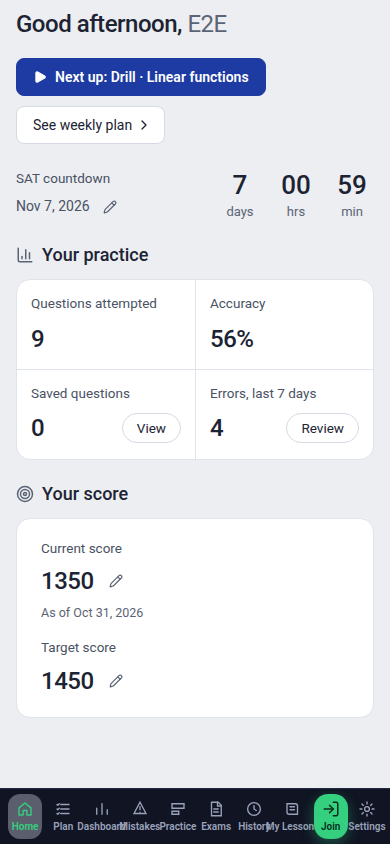
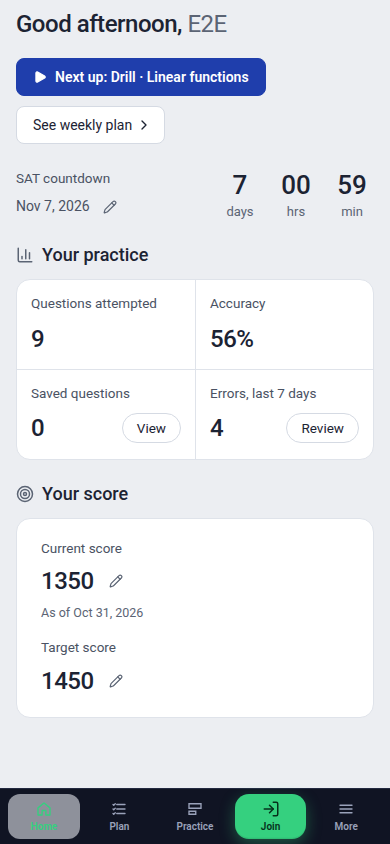
Phone tab bar with a More menu; drop slashes from account names
- Phone (<=760px): the bottom bar keeps Home, Plan, Practice, Join and a new
  More button; Dashboard, Mistakes, Exams, History, My Lessons, Settings,
  Admin and sign in/out open from More, so labels no longer overlap. The
  rail above 760px is unchanged. The rail's dark hover now beats the
  page-wide light button:hover that left a pale tile under the pointer.
- Names: the identity provider prefixes names with '/'. src/name.js drops
  slashes wherever the Worker reads a name (users row, lesson roster), and
  the app does the same for the name it shows.
- data-fixes/main/0001_user_name_slashes.sql cleans names already stored in
  users (not applied; backup/apply/verify commands in its header).
- Tests: tests/test_name.ts (incl. the SQL run against SQLite); home.spec H5
  covers the tab bar and More menu.

Claude-Session: https://claude.ai/code/session_018RgxUgDhV5hH4adTp8RhiX

Changed region(s): [[0.0, 0.9242, 0.9846, 1.0]]

diff --git a/public/index.html b/public/index.html
@@ -106,7 +106,8 @@ img { max-width: 100%; height: auto; }
 .nav-brand .brand-mark { flex: 0 0 34px; display: grid; place-items: center; width: 34px; height: 34px; background: #2563eb; color: #fff; border-radius: 10px; font-size: 20px; }
 .nav-grp { font-size: 10.5px; font-weight: 700; letter-spacing: .1em; text-transform: uppercase; color: var(--nav-dim); padding: 18px 10px 7px; }
 .nav-i { display: flex; align-items: center; gap: 11px; width: 100%; text-align: left; border: 0; background: transparent; color: var(--nav-txt); font-size: 14px; font-weight: 500; padding: 10px; border-radius: 11px; margin-bottom: 2px; }
-.nav-i:hover:not(:disabled) { background: var(--nav-2); border-color: transparent; color: var(--nav-on); }
+/* .nav in front: the page-wide light button:hover outranks a bare .nav-i:hover and left a pale tile on the dark rail. */
+.nav .nav-i:hover:not(:disabled) { background: var(--nav-2); border-color: transparent; color: var(--nav-on); }
 .nav-i.on { background: var(--nav-2); color: var(--nav-on); font-weight: 600; }
 .nav-i.on svg { color: var(--mint); }
 .nav-i svg { flex: 0 0 18px; }
@@ -120,6 +121,8 @@ img { max-width: 100%; height: auto; }
 #join-lesson:focus-visible { outline: 2px solid #fff; outline-offset: 2px; }
 @media (prefers-reduced-motion: reduce) { #join-lesson { transition: none; } #join-lesson:hover:not(:disabled) { transform: none; } }
 .nav-user { display: flex; align-items: center; gap: 10px; padding: 12px 10px 10px; border-top: 1px solid var(--nav-line); }
+/* The phone tab bar's More button and its menu (the rest of the rail); the rail itself never shows them. */
+.nav-more, .nav-more-menu { display: none; }
 .nav-av { flex: 0 0 32px; width: 32px; height: 32px; border-radius: 50%; background: var(--nav-2); color: var(--nav-on); display: flex; align-items: center; justify-content: center; font-weight: 700; font-size: 13px; }
 .nav-um { min-width: 0; }
 .nav-gear { width: auto; flex: 0 0 auto; margin: 0 0 0 auto; padding: 8px; }
@@ -609,28 +612,38 @@ body:has(#bank-live:not(.hide)) #sync-bar { bottom: calc(clamp(52px, 7vh, 85px) 
   /* A bottom nav is an icon over its label, and the labels have to come back:
      they are hidden at 980px because the rail is a 66px strip there, but here
      there is a whole row for them and a bare glyph row reads as a toolbar.
-     Five equal tabs plus the sign-in button; "Question Bank" does not fit in a
-     fifth of 375px and the gear has no label in the markup at all, so those two
-     carry a short one of their own. */
+     Five tiles: Home, Plan, Practice, Join and More; everything else on the rail
+     (Dashboard, Mistakes, Exams, History, My Lessons, Settings, Admin, sign in
+     or out) is in the More menu. "Question Bank" does not fit in a fifth of
+     375px, so it carries a short label of its own. */
   .nav-i, .nav-user { flex: 1 1 0; min-width: 0; }
   .nav-i { flex-direction: column; justify-content: center; gap: 3px;
            margin: 0; padding: 6px 2px; border-radius: 12px; }
-  .nav-i > span, .nav-gear::after { display: block; font-size: 10px; font-weight: 600;
+  .nav-i > span { display: block; font-size: 10px; font-weight: 600;
                                     line-height: 1.2; white-space: nowrap; }
   .nav-i[data-tab="practice"] > span { font-size: 0; }
   .nav-i[data-tab="practice"] > span::after { content: "Practice"; font-size: 10px; }
   .nav-i[data-tab="plan"] > span { font-size: 0; }
   .nav-i[data-tab="plan"] > span::after { content: "Plan"; font-size: 10px; }
-  .nav-i[data-tab="exams"] > span { font-size: 0; }
-  .nav-i[data-tab="exams"] > span::after { content: "Exams"; font-size: 10px; }
-  .nav-gear::after { content: "Settings"; }
+  .nav-i[data-tab="dash"], .nav-i[data-tab="mistakes"], .nav-i[data-tab="exams"], .nav-i[data-tab="history"],
+  .nav-i[data-tab="lessons"], #admin-link, .nav-user { display: none; }
+  .nav-more { display: flex; }
+  .nav-more.on > span { color: var(--mint); }
+  .nav-more.on svg { color: var(--mint); }
+  .nav-more-menu:not([hidden]) { display: flex; flex-direction: column; position: fixed; z-index: 60; right: 8px;
+    bottom: calc(68px + env(safe-area-inset-bottom)); min-width: 210px; padding: 6px; border: 1px solid var(--nav-line);
+    border-radius: 14px; background: var(--nav); box-shadow: 0 12px 32px rgba(10, 15, 30, .35); }
+  .nav-more-i { display: flex; align-items: center; gap: 12px; width: 100%; padding: 11px 12px; border: 0; border-radius: 10px;
+    background: transparent; color: var(--nav-txt); font-size: 14.5px; font-weight: 500; text-align: left; text-decoration: none; }
+  .nav-more-menu .nav-more-i:hover:not(:disabled) { background: var(--nav-2); color: var(--nav-on); }
+  .nav-more-i.on { background: var(--nav-2); color: var(--nav-on); font-weight: 600; }
+  .nav-more-i.on svg { color: var(--mint); }
+  .nav-more-i svg { flex: 0 0 18px; }
   #join-lesson { margin: 0; padding: 6px 2px; border-radius: 14px; box-shadow: 0 3px 10px rgba(53, 208, 127, .35); }
   #join-lesson > span { color: var(--mint-ink); font-size: 0; }
   #join-lesson > span::after { content: "Join"; font-size: 10px; }
   .nav-i.on > span, .nav-i.on::after { color: var(--mint); }
   .nav-brand, .nav-sp, .nav-av { display: none; }
-  .nav-user { border-top: 0; padding: 0; gap: 0; }
-  .nav-gear { width: 100%; margin: 0; }
   #btn-auth { display: none; }
 
   .board-h { padding: 16px 16px 12px; }
@@ -753,9 +766,8 @@ body:has(#bank-live:not(.hide)) #sync-bar { bottom: calc(clamp(52px, 7vh, 85px) 
    was clipped off the side. 375px fits the word with 27px to spare, so only the
    smallest phones lose it; "Show explanation" is spelled out in the More menu. */
 @media (max-width: 360px) {
-  .nav-i > span, .nav-gear::after { display: none; }
+  .nav-i > span { display: none; }
   .nav-i[data-tab="practice"] > span::after { content: none; }
-  .nav-i[data-tab="exams"] > span::after { content: none; }
   #btn-expl { min-width: 0; padding: 9px 11px; font-size: 0; }
   #btn-note { min-width: 0; padding: 9px 11px; font-size: 15px; }
   #btn-expl::after { content: "\24D8"; font-size: 17px; }
@@ -922,6 +934,8 @@ body:has(#bank-live:not(.hide)) #sync-bar { bottom: calc(clamp(52px, 7vh, 85px) 
       <button class="nav-i nav-gear" data-tab="settings" title="Settings" aria-label="Settings"><svg width="18" height="18" viewBox="0 0 24 24" fill="none" stroke="currentColor" stroke-width="1.8" stroke-linecap="round"><circle cx="12" cy="12" r="3.2"/><path d="M12 2.6v2.6M12 18.8v2.6M2.6 12h2.6M18.8 12h2.6M5.3 5.3l1.9 1.9M16.8 16.8l1.9 1.9M18.7 5.3l-1.9 1.9M7.2 16.8l-1.9 1.9"/></svg></button>
     </div>
     <button id="btn-auth">Sign in</button>
+    <button class="nav-i nav-more" id="nav-more" type="button" aria-haspopup="menu" aria-expanded="false" aria-controls="nav-more-menu"><svg width="18" height="18" viewBox="0 0 24 24" fill="none" stroke="currentColor" stroke-width="1.8" stroke-linecap="round"><path d="M4 7h16M4 12h16M4 17h16"/></svg><span>More</span></button>
+    <div class="nav-more-menu" id="nav-more-menu" role="menu" aria-label="More" hidden></div>
   </aside>
 
   <main class="board">
@@ -1667,6 +1681,7 @@ function setTab(t) {
   if (!TABS.includes(t)) t = 'home';   // a tab that no longer exists (Browse) lands on the default
   TAB = t;
   NAV.forEach(x => x.classList.toggle('on', x.dataset.tab === t));
+  $('nav-more').classList.toggle('on', MORE_TABS.includes(t));   // the phone bar's More stands for the tabs inside it
   TABS.forEach(k => $('tab-'+k).classList.toggle('hide', k !== t));
   // The question bank home fits the screen; the greeting header would push it into a scroll. Home has its own greeting.
   document.querySelector('.board-h').classList.toggle('hide', t === 'practice' || t === 'home');
@@ -1679,7 +1694,35 @@ function setTab(t) {
   if (t === 'history') drawHistory();
   if (t === 'lessons') drawLessons();
 }
-NAV.forEach(b => b.onclick = () => setTab(b.dataset.tab));
+NAV.forEach(b => { if (b.dataset.tab) b.onclick = () => setTab(b.dataset.tab); });
+
+// Phone tab bar: Home, Plan, Practice and Join stay on the bar; the rest of the rail opens from More. The menu is
+// built from the rail's own buttons when it opens, so it has the same icons and the current Admin / sign-in state.
+const MORE_TABS = ['dash','mistakes','exams','history','lessons','settings'];
+const SHIELD = '<svg width="18" height="18" viewBox="0 0 24 24" fill="none" stroke="currentColor" stroke-width="1.8" stroke-linejoin="round"><path d="M12 3l7 3v5c0 4.5-3 8-7 10-4-2-7-5.5-7-10V6z"/></svg>';
+const $more = $('nav-more'), $moreMenu = $('nav-more-menu');
+function closeMore() { $moreMenu.hidden = true; $more.setAttribute('aria-expanded', 'false'); }
+function openMore() {
+  const icon = el => el.querySelector('svg').outerHTML;
+  const items = MORE_TABS.map(t => {
+    const b = document.querySelector(`.nav-i[data-tab="${t}"]`);
+    const label = t === 'settings' ? 'Settings' : b.querySelector('span').textContent;
+    return `<button class="nav-more-i${TAB === t ? ' on' : ''}" role="menuitem" data-more="${t}">${icon(b)}<span>${label}</span></button>`;
+  });
+  if (!$('admin-link').classList.contains('hide')) items.push(`<a class="nav-more-i" role="menuitem" href="/admin">${SHIELD}<span>Admin</span></a>`);
+  items.push(`<button class="nav-more-i" role="menuitem" data-more="auth">${icon($('join-lesson'))}<span>${esc($('btn-auth').textContent)}</span></button>`);
+  $moreMenu.innerHTML = items.join('');
+  $moreMenu.querySelectorAll('[data-more]').forEach(b => b.onclick = () => {
+    closeMore();
+    if (b.dataset.more === 'auth') $('btn-auth').click(); else setTab(b.dataset.more);
+  });
+  $moreMenu.hidden = false;
+  $more.setAttribute('aria-expanded', 'true');
+  $moreMenu.querySelector('.nav-more-i')?.focus();
+}
+$more.onclick = (e) => { e.stopPropagation(); $moreMenu.hidden ? openMore() : closeMore(); };
+document.addEventListener('click', (e) => { if (!$moreMenu.hidden && !$moreMenu.contains(e.target)) closeMore(); });
+document.addEventListener('keydown', (e) => { if (e.key === 'Escape' && !$moreMenu.hidden) { closeMore(); $more.focus(); } });
 
 // ---------------- legal ----------------
 const LEGAL_CONTACT = 'chakrabortyleon@gmail.com';
@@ -4730,7 +4773,9 @@ function applySession(session) {
   uid = owner;
   authToken = session?.access_token || null;
   const u = session?.user;
-  const nm = u ? (u.user_metadata?.full_name || u.email || 'Signed in') : 'Guest';
+  // Our identity provider prefixes names with '/' ("/Leon Chakraborty"); src/name.js drops it the same way.
+  const clean = x => String(x ?? '').replace(/\//g, '').replace(/\s+/g, ' ').trim();
+  const nm = u ? (clean(u.user_metadata?.full_name) || u.email || 'Signed in') : 'Guest';
   $userName.textContent = nm;
   $('nav-av').textContent = nm[0].toUpperCase();
   $('nav-sub').textContent = u ? (u.email || 'Signed in') : 'Not signed in';

diff --git a/tests/e2e/study-plan/home.spec.ts b/tests/e2e/study-plan/home.spec.ts
@@ -84,7 +84,7 @@ test('H3 target and current score: validated inline, saved to the plan, shown on
   await saveLog(page);
 });
 
-test('H4 logging a test updates Home; the button starts the next step', async () => {
+test('H4 logging a test updates Home', async () => {
   await tab('home');
   await expect(home('home-current-value')).toHaveText('1350');
   await expect(home('home-goal-value')).toHaveText('1450');
@@ -95,6 +95,43 @@ test('H4 logging a test updates Home; the button starts the next step', async ()
   expect(await page.evaluate(() => document.querySelector('.board-b')!.scrollWidth <= document.querySelector('.board-b')!.clientWidth)).toBe(true);
   await shot(page, 'home-4-phone');
   await page.setViewportSize({ width: 1366, height: 768 });
+});
+
+test('H5 phone tab bar: five tiles that do not overlap; More opens the rest of the rail', async () => {
+  await page.setViewportSize({ width: 390, height: 844 });
+  const tiles = page.locator('.nav > :visible');
+  expect(await tiles.evaluateAll(els => els.map(el => el.id || (el as HTMLElement).dataset.tab)))
+    .toEqual(['home', 'plan', 'practice', 'join-lesson', 'nav-more']);
+  // No label is wider than its tile, so no two labels run into each other.
+  expect(await tiles.evaluateAll(els => els.every(el => { const s = el.querySelector('span')!; return s.scrollWidth <= el.clientWidth; }))).toBe(true);
+  const menu = page.locator('#nav-more-menu');
+  await expect(menu).toBeHidden();
+  await page.locator('#nav-more').click();
+  await expect(page.locator('#nav-more')).toHaveAttribute('aria-expanded', 'true');
+  await expect(menu.locator('.nav-more-i')).toHaveText(['Dashboard', 'Mistakes', 'Practice Exams', 'History', 'My Lessons', 'Settings', 'Sign out']);
+  await shot(page, 'home-8-phone-more');
+  await page.keyboard.press('Escape');
+  await expect(menu).toBeHidden();
+  await page.locator('#nav-more').click();
+  await menu.locator('[data-more="mistakes"]').click();
+  await expect(menu).toBeHidden();
+  await expect(page.locator('#tab-mistakes')).toBeVisible();
+  await expect(page.locator('#nav-more')).toHaveClass(/\bon\b/);
+  // A click outside closes it.
+  await page.locator('#nav-more').click();
+  await expect(menu).toBeVisible();
+  await page.locator('.board-b').click({ position: { x: 20, y: 20 } });
+  await expect(menu).toBeHidden();
+  await page.locator('[data-tab="home"]').click();
+  await expect(page.locator('#nav-more')).not.toHaveClass(/\bon\b/);
+  await page.setViewportSize({ width: 1366, height: 768 });
+  // The rail is unchanged on a laptop: every tab is on it and More is not.
+  await expect(page.locator('.nav-i[data-tab="mistakes"]')).toBeVisible();
+  await expect(page.locator('#nav-more')).toBeHidden();
+});
+
+test('H6 Home edits and the plan start from Home', async () => {
+  await tab('home');
   await home('home-goal-edit').click();
   await home('home-goal-input').fill('1500');
   await home('home-goal-save').click();

diff --git a/src/index.js b/src/index.js
@@ -4,6 +4,7 @@ import { padSessionId, progressStatement, attemptStatement, attendedSessions, le
 export { LessonRoom } from './lesson-room.js';
 export { LessonSync } from './lesson-sync.js';
 import { traceEnv } from './budget.js';
+import { accountName, cleanName } from './name.js';
 import { submitReport, submitSuggestion, adminReportRoute, MAX_REPORT_BODY } from './reports.js';
 import { sessionResults, classAverage } from './session-results.js';
 
@@ -53,7 +54,7 @@ async function lessonAccess(req, env, url, p, u) {
     if (!participant) return json({ error: 'not joined' }, 403);
   }
   const body = { sessionId: session.id, userId: u.id, role: projector ? 'projector' : admin ? 'admin' : 'student',
-    name: String(u.user_metadata?.full_name || u.email || u.id).slice(0, 200), ws: !!ws, join, clientId: projector ? null : clientId, desmosKey: desmosApiKey(env, url) };
+    name: String(cleanName(u.user_metadata?.full_name) || u.email || u.id).slice(0, 200), ws: !!ws, join, clientId: projector ? null : clientId, desmosKey: desmosApiKey(env, url) };
   return env.LESSON_ROOM.getByName(String(session.id)).fetch(ws
     ? new Request('https://lesson.internal/', { headers: { Upgrade: 'websocket', 'X-Lesson-Internal': 'room', 'X-Lesson-Context': JSON.stringify(body) } })
     : new Request('https://lesson.internal/', { method: 'POST', headers: { 'X-Lesson-Internal': 'room', 'Content-Type': 'application/json' }, body: JSON.stringify(body) }));
@@ -188,7 +189,7 @@ async function whoami(req, env) {
 const TOUCHED = new Set();
 async function touchUser(env, u) {
   if (TOUCHED.has(u.id)) return;
-  const name = u.user_metadata?.full_name || u.user_metadata?.name || '';
+  const name = accountName(u);
   await env.DB.prepare(
     `INSERT INTO users (id, email, name) VALUES (?,?,?)
      ON CONFLICT(id) DO UPDATE SET email=excluded.email,
@@ -234,7 +235,7 @@ const validHistory = r => {
 };
 // Only the session POST synchronizes env promotion/demotion. Existing roles remain until next sign-in.
 async function syncRole(env, u) {
-  const name = u.user_metadata?.full_name || u.user_metadata?.name || '';
+  const name = accountName(u);
   const emails = String(env.ADMIN_EMAILS || '').split(',').map(x => x.trim().toLowerCase()).filter(Boolean);
   const role = emails.includes(u.email.toLowerCase()) ? 'admin' : 'student';
   await env.DB.prepare(`INSERT INTO users (id, email, name, role) VALUES (?,?,?,?)

diff --git a/tests/test_name.ts b/tests/test_name.ts
@@ -1,0 +1,38 @@
+// Account names (src/name.js): the identity provider's forward slashes are dropped, and so are the spaces they leave.
+//
+//   node --test tests/test_name.ts
+import test from 'node:test';
+import assert from 'node:assert/strict';
+import { readFileSync } from 'node:fs';
+import Database from 'better-sqlite3';
+import { cleanName, accountName } from '../src/name.js';
+
+test('cleanName drops every forward slash and tidies the spaces', () => {
+  assert.equal(cleanName('/Leon Chakraborty'), 'Leon Chakraborty');
+  assert.equal(cleanName('/ Leon Chakraborty'), 'Leon Chakraborty');
+  assert.equal(cleanName('Leon / Chakraborty/'), 'Leon Chakraborty');
+  assert.equal(cleanName('Leon Chakraborty'), 'Leon Chakraborty');
+  assert.equal(cleanName('/'), '');
+  assert.equal(cleanName(undefined), '');
+  assert.equal(cleanName(null), '');
+});
+
+test('accountName prefers full_name, then name, and is empty when both are', () => {
+  assert.equal(accountName({ user_metadata: { full_name: '/Leon Chakraborty', name: 'x' } }), 'Leon Chakraborty');
+  assert.equal(accountName({ user_metadata: { full_name: '/', name: '/Leon' } }), 'Leon');
+  assert.equal(accountName({ user_metadata: {} }), '');
+  assert.equal(accountName({}), '');
+});
+
+test('the D1 data fix gives stored names the same result, and leaves clean names alone', () => {
+  const db = new Database(':memory:');
+  db.exec('CREATE TABLE users (id TEXT PRIMARY KEY, email TEXT, name TEXT)');
+  const names = ['/Leon Chakraborty', '/ Leon Chakraborty', 'Leon / Chakraborty/', 'Ada Lovelace', '/', null];
+  const put = db.prepare('INSERT INTO users (id, email, name) VALUES (?, ?, ?)');
+  names.forEach((n, i) => put.run('u' + i, `u${i}@example.com`, n));
+  db.exec(readFileSync(new URL('../data-fixes/main/0001_user_name_slashes.sql', import.meta.url), 'utf8'));
+  const after = db.prepare('SELECT name FROM users ORDER BY id').all().map((r: any) => r.name);
+  assert.deepEqual(after, ['Leon Chakraborty', 'Leon Chakraborty', 'Leon Chakraborty', 'Ada Lovelace', null, null]);
+  assert.deepEqual(after.slice(0, 4), names.slice(0, 4).map(cleanName));
+  assert.equal(db.prepare("SELECT COUNT(*) AS n FROM users WHERE name LIKE '%/%'").get()['n'], 0);
+});

diff --git a/src/name.js b/src/name.js
@@ -1,0 +1,7 @@
+// Account names come from the identity provider. Ours prefixes them with a forward slash ("/Leon Chakraborty"),
+// which then shows on the rail, the lesson roster and the admin pages; slashes are dropped wherever a name is read.
+// public/index.html applies the same rule to the name it shows; data-fixes/main/0001_user_name_slashes.sql cleans
+// names already stored in `users`.
+export const cleanName = s => String(s ?? '').replace(/\//g, '').replace(/\s+/g, ' ').trim();
+// The display name of a Supabase user: full_name, then name; '' when neither has anything left.
+export const accountName = u => cleanName(u?.user_metadata?.full_name) || cleanName(u?.user_metadata?.name);

diff --git a/data-fixes/README.md b/data-fixes/README.md
@@ -4,5 +4,6 @@ These SQL files UPDATE rows that must already exist. They are not fresh-setup se
 
 - `core/`: repairs against the main `DB.questions`, retained in historical filename order. Math answerability repairs were generated after re-extraction chunks; inspect prerequisites and current rows before applying.
 - `ai/`: taxonomy repair against `AI_DB.questions`, not the main database.
+- `main/`: account data in the main `DB` (not questions). `0001_user_name_slashes.sql` drops the identity provider's forward slashes from `users.name`; its header has the backup, apply and verify commands.
 
 Back up the intended database, review every predicate and target binding, and verify affected rows before any manual application. Historical SQL bytes are unchanged. See [migration mapping](../docs/history/migration-map.md). Fresh initialization uses schema snapshots; no repairs are required to create tables.
